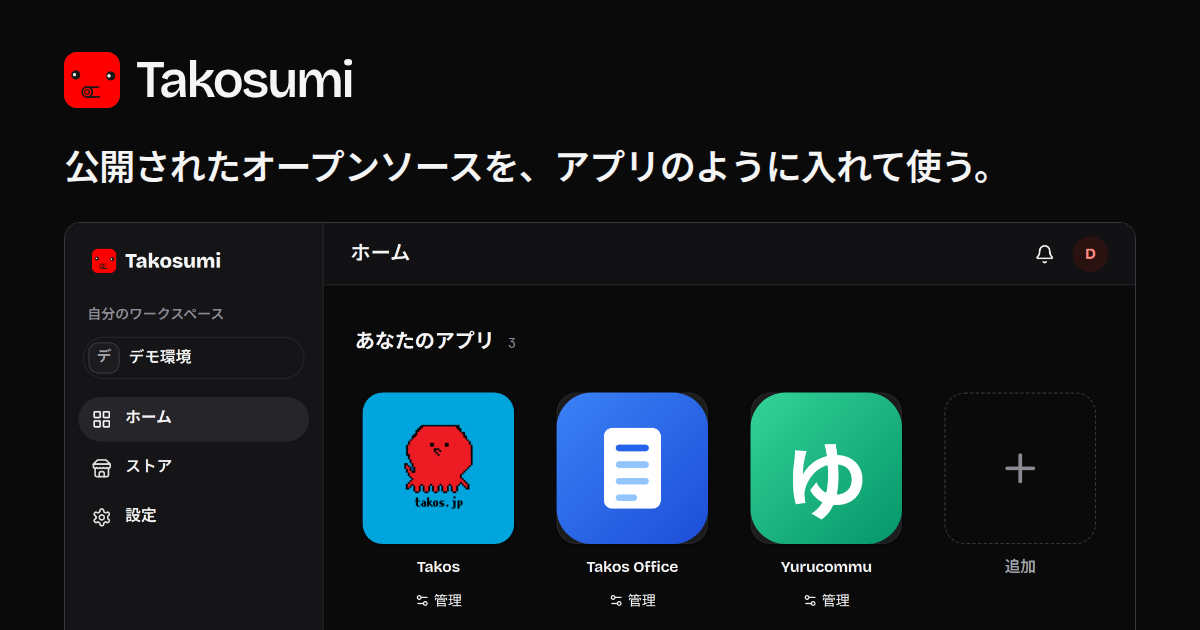
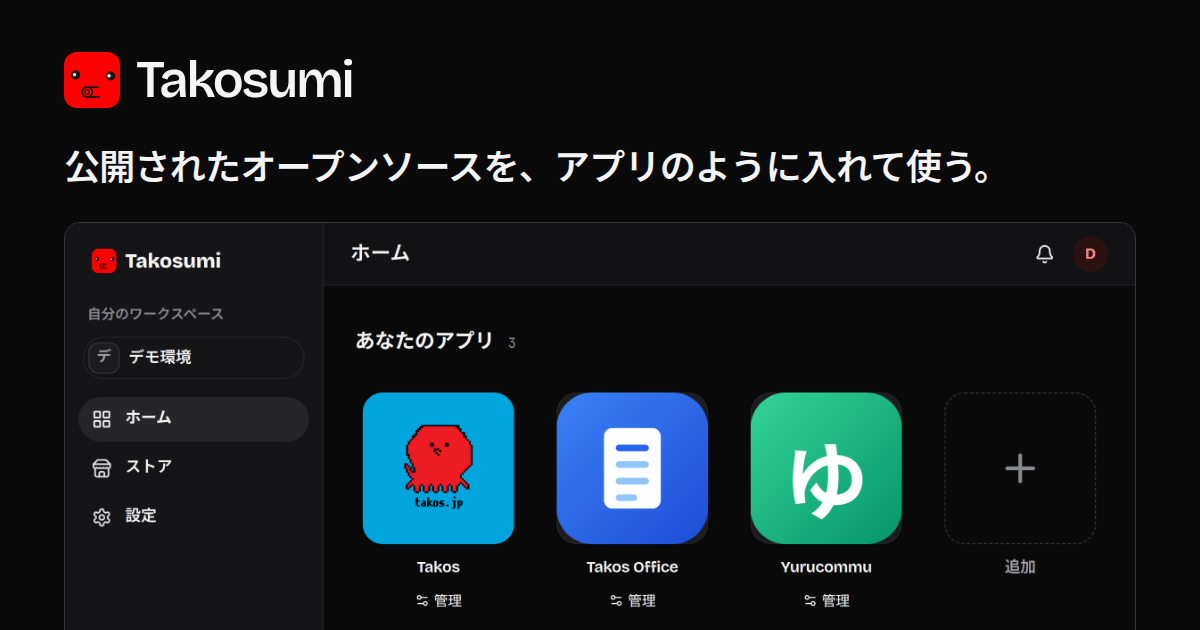
website: capture the hero's Home at device scale 2.5 to keep its sharpness
Review follow-up: at 960 × 600 and 2× the Home image was 1920px wide, so the
hero's 1180px on a 2× display upscaled it about 1.23×. Desktop Home now has
its own capture at device scale 2.5, giving the same 2400 × 1500 pixels as
before for the smaller window; the other desktop screens keep their own
1200 × 750, 2× capture and are byte-identical. The share card is re-rendered
from the sharper image, and the provenance note states both scales.

diff --git a/website/src/content/captures.ts b/website/src/content/captures.ts
@@ -25,9 +25,9 @@ export const CAPTURES = {
 /** Actual Takosumi dashboard views with browser-served public examples. */
 export const DASHBOARD_CAPTURES = {
   home: {
-    desktop: { src: "/screens/dashboard-home-desktop.png", width: 1920, height: 1200 },
+    desktop: { src: "/screens/dashboard-home-desktop.png", width: 2400, height: 1500 },
     mobile: { src: "/screens/dashboard-home-mobile.png", width: 780, height: 1400 },
-    desktopLight: { src: "/screens/dashboard-home-desktop-light.png", width: 1920, height: 1200 },
+    desktopLight: { src: "/screens/dashboard-home-desktop-light.png", width: 2400, height: 1500 },
     mobileLight: { src: "/screens/dashboard-home-mobile-light.png", width: 780, height: 1400 },
   },
   install: {

diff --git a/website/scripts/capture-product-ui-provenance.md b/website/scripts/capture-product-ui-provenance.md
@@ -141,15 +141,15 @@ the landing's 780 / 1720 crop. Pressing that button in the
 real dashboard creates a plan back to that version's source, reviewed and
 applied like any other change.
 
-Desktop Home uses the complete 960 × 600 viewport (since 2026-10-17; before
-that 1200 × 750, which left the three launcher tiles in one corner of the
-landing's hero frame). Desktop Store uses the complete 1200 × 750 viewport, with
+Desktop Home uses the complete 960 × 600 viewport at device scale 2.5, giving
+2400 × 1500 (since 2026-10-17; before that 1200 × 750 at 2×, which left the
+three launcher tiles in one corner of the landing's hero frame). Desktop Store uses the complete 1200 × 750 viewport, with
 no screenshot clip; desktop review and updates keep the 1200px width and end just
 below their card. Mobile Home uses 390 × 700, mobile Store and updates use
 390 × 950 so the first service card or the update history is readable, and
 mobile review is the card clip described above.
-All use device scale 2, Japanese locale, loaded UI fonts, and Noto Sans JP as the system
-Japanese fallback. The script seeds the dashboard's own `tg_theme` preference
+Every capture except desktop Home uses device scale 2. All use the Japanese
+locale, loaded UI fonts, and Noto Sans JP as the system Japanese fallback. The script seeds the dashboard's own `tg_theme` preference
 to match the browser color scheme and confirms the rendered `data-theme` before
 saving each dark or light image. `DASHBOARD_CAPTURES` records the resulting exact pixel
 dimensions. No HTML or screenshot pixels were redrawn or edited.
